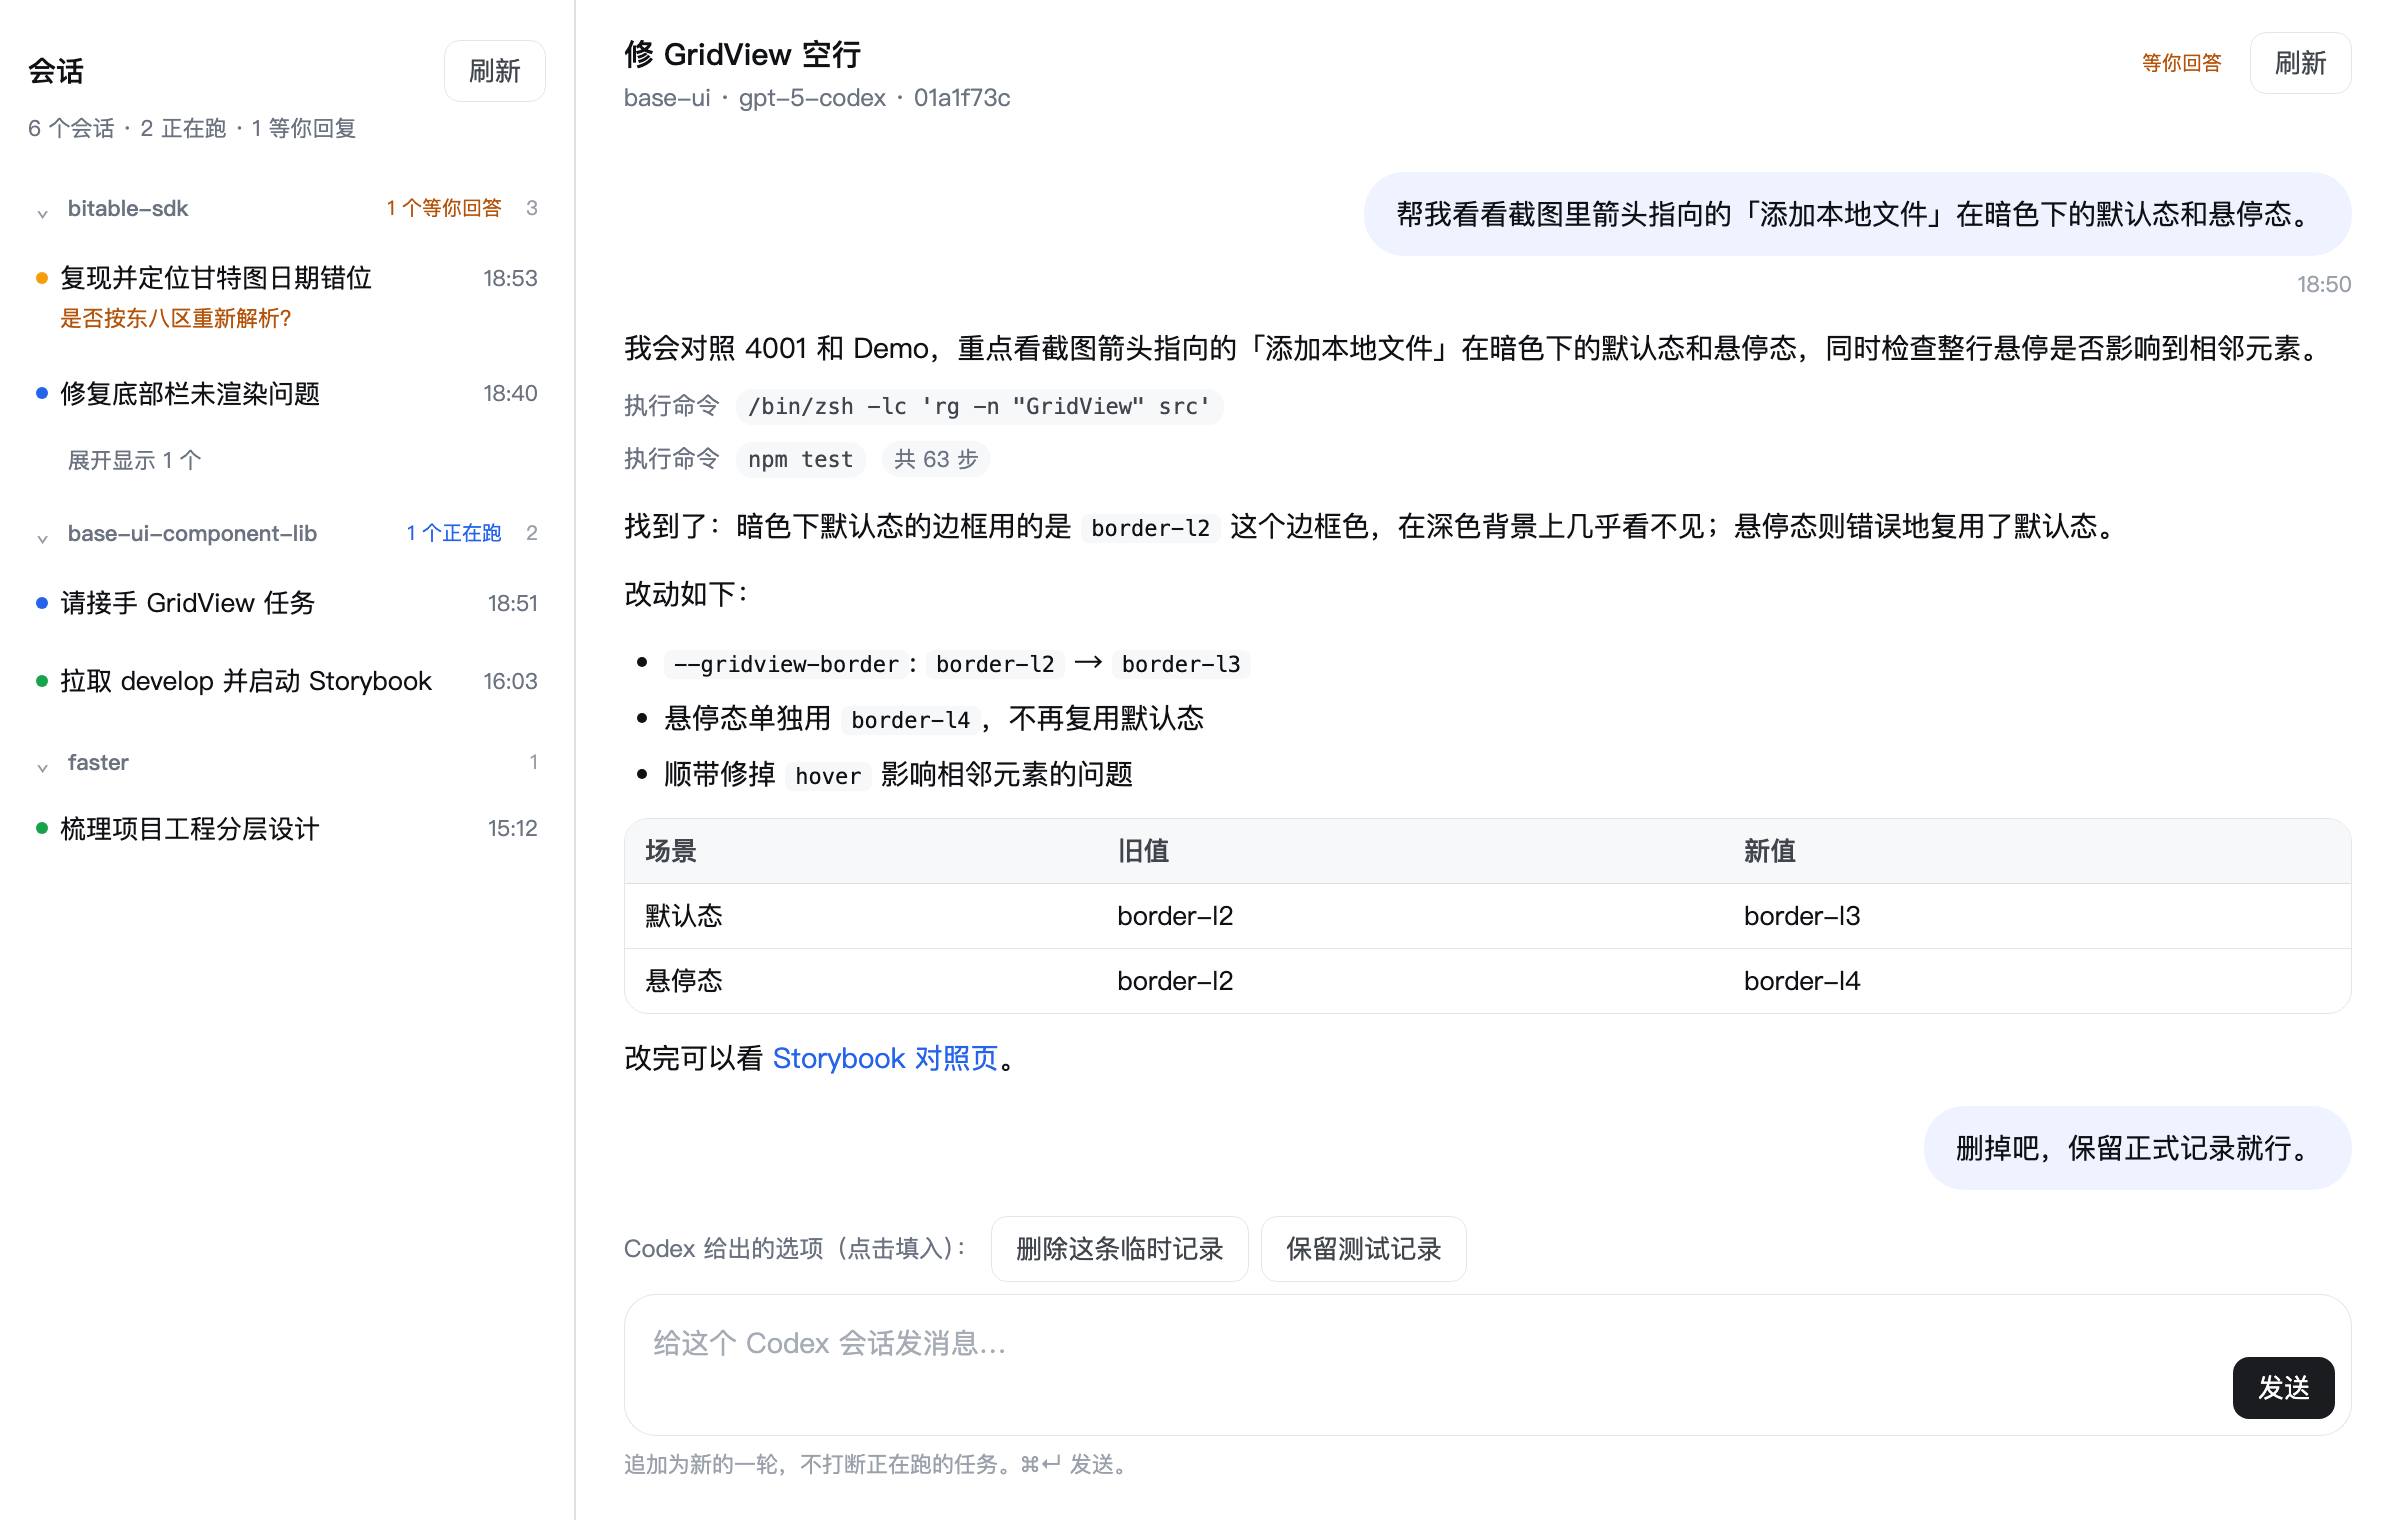
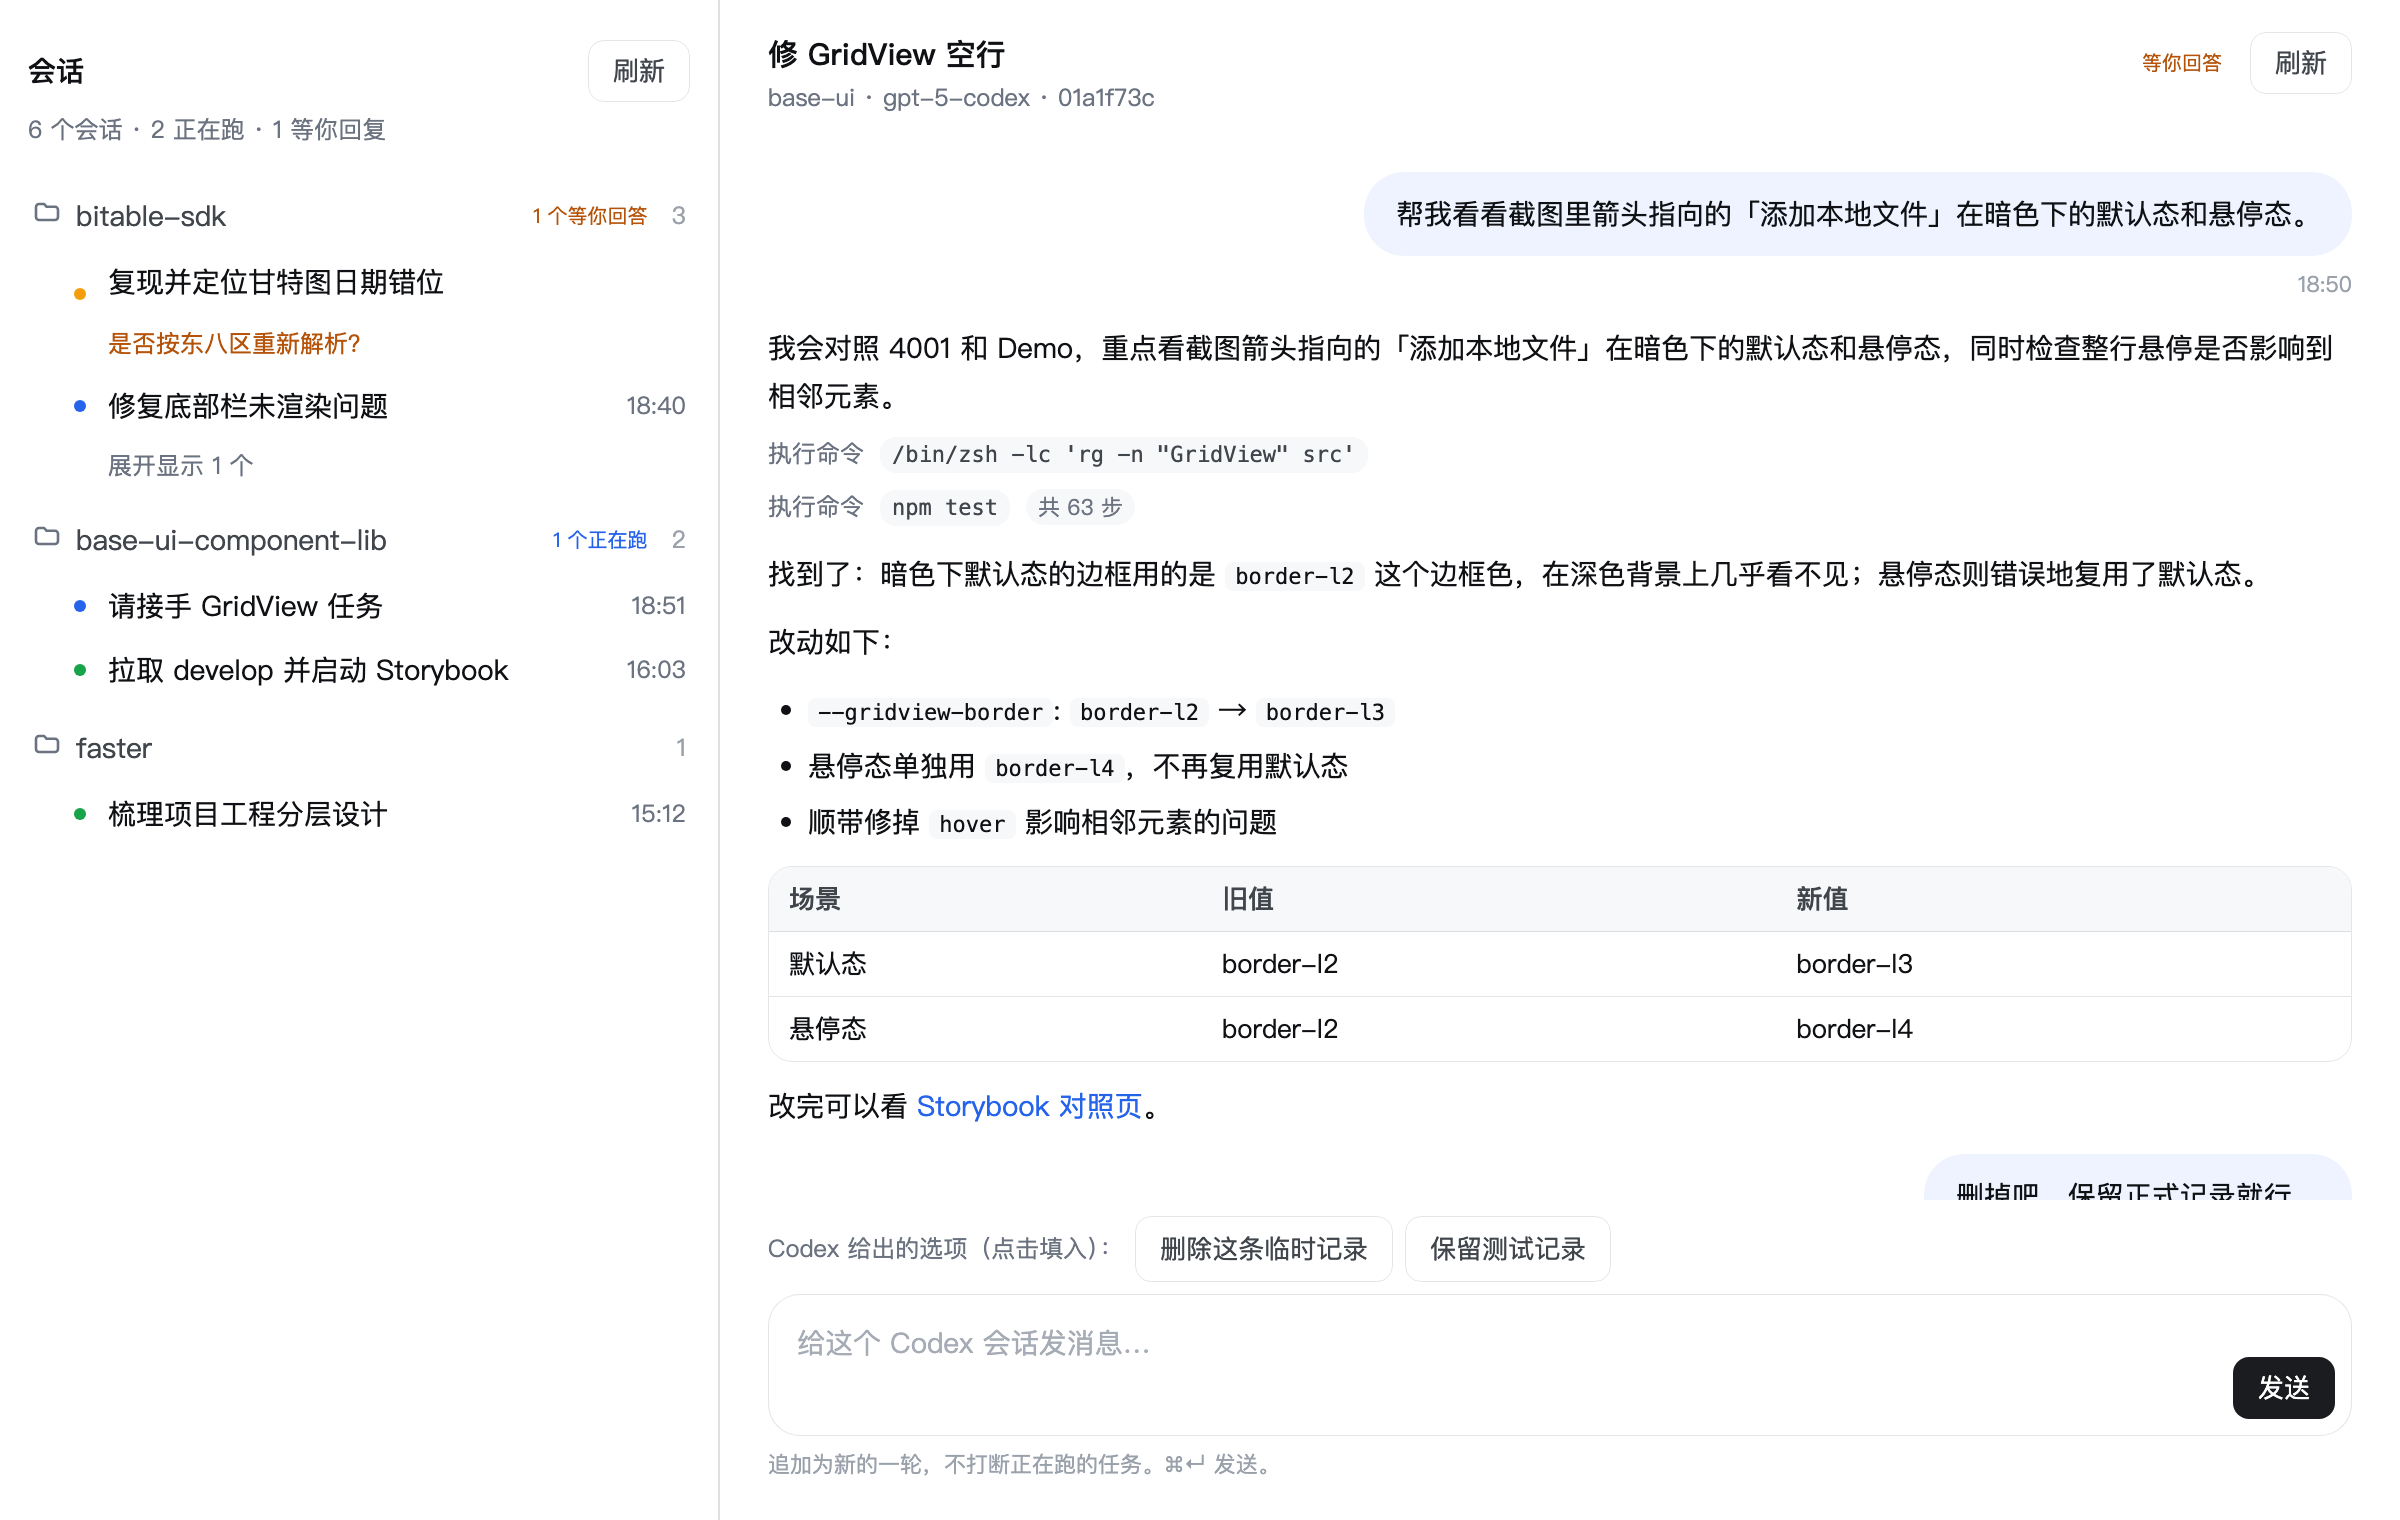
Match the list rows to DSH's own workspace tree metrics
The list rows were invented rather than derived, so they did not sit on the same
grid as the host UI: 9px-padded two-line cards with a 13px title and an 8px radius,
next to a host that uses one-line rows.

Take the metrics from dsh-client-ui-workspace, which renders the session tree the
list is meant to resemble:

  project row 34px, session row 32px, radius --dsw-radius-md (12px),
  icon slot 16x20, 12px row padding, 6px icon-to-label gap,
  14px/20px title, 12px/20px meta, and 12px per nesting level
  (--dsh-workspace-indent)

Rows become single-line with an icon slot and an ellipsised title, matching the
host. The one deliberate exception is a session that waits on the user: it breaks
the one-line rhythm to carry the pending question, because that is the row the
list exists to surface.

The project row adopts DSH's hover behaviour too, swapping the folder glyph for a
chevron, and uses the host's hover and focus-ring tokens rather than a bespoke
background.

The list pane widens to clamp(240px, 30%, 360px); at the old 24% the real project
names (base-ui-component-lib) truncated.

diff --git a/plugin/client.js b/plugin/client.js
@@ -187,51 +187,69 @@ window.__ModuleLoader__.load({
   background:var(--dsw-alias-bg-base);color:var(--dsw-alias-label-primary);
   font-size:var(--dsh-content-font-size,14px)}
 
-/* left: session list */
-.cxm-list-pane{flex:none;width:clamp(212px,24%,300px);display:flex;flex-direction:column;
+/* left: session list
+   Row metrics are taken from DSH's own workspace tree
+   (dsh-client-ui-workspace: .sessionRow / .projectRow) rather than invented, so the
+   list reads as part of the host UI: 32px session rows, 34px project rows, a 16x20
+   icon slot, 12px row padding, 6px icon-to-label gap, and 12px per nesting level. */
+.cxm-list-pane{flex:none;width:clamp(240px,30%,360px);display:flex;flex-direction:column;
   min-height:0;border-right:1px solid var(--dsw-alias-border-l3)}
 .cxm-list-head{padding:calc(20px + var(--dsh-frame-top-clearance,0px)) 14px 10px}
 .cxm-list-title{margin:0;font-size:14px;font-weight:500;display:flex;align-items:center;
   gap:8px;justify-content:space-between}
-.cxm-list-counts{color:var(--dsw-alias-label-tertiary);font-size:11px;margin-top:5px;
-  line-height:1.5}
+.cxm-list-counts{color:var(--dsw-alias-label-tertiary);font-size:12px;margin-top:4px;
+  line-height:20px}
 .cxm-list-body{flex:1;min-height:0;overflow:auto;padding:0 8px 16px;display:flex;
-  flex-direction:column;gap:2px}
-.cxm-row{display:flex;flex-direction:column;gap:3px;width:100%;text-align:left;
-  border:0;border-radius:var(--dsw-radius-sm);background:transparent;color:inherit;
-  padding:9px 10px;cursor:pointer;font-family:inherit;position:relative}
-.cxm-row[data-selected='true']{background:var(--dsw-alias-bg-layer-2)}
-.cxm-row-top{display:flex;align-items:center;gap:6px;min-width:0}
+  flex-direction:column}
+
+/* Shared row geometry: one line, icon slot, ellipsised title. */
+.cxm-row,.cxm-group-head,.cxm-group-more{display:flex;align-items:center;
+  box-sizing:border-box;width:100%;text-align:left;border:0;font-family:inherit;
+  background:transparent;cursor:pointer;color:var(--dsw-alias-label-primary);
+  border-radius:var(--dsw-radius-md);padding:0 8px;gap:var(--dsh-sidebar-label-gap,6px)}
+.cxm-row:hover,.cxm-group-head:hover,.cxm-group-more:hover{
+  background:var(--dsw-alias-interactive-bg-hover)}
+.cxm-row[data-selected='true']{background:var(--dsw-alias-interactive-bg-hover)}
+.cxm-row:focus-visible,.cxm-group-head:focus-visible,.cxm-group-more:focus-visible{
+  outline:var(--dsw-focus-ring-width) solid var(--dsw-focus-ring-color);outline-offset:-2px}
+
+/* session row: 32px, indented one level under its project */
+.cxm-row{height:32px;padding-inline-start:calc(12px + 12px)}
+.cxm-slot{width:16px;height:20px;flex:none;display:inline-flex;align-items:center;
+  justify-content:center;color:var(--dsw-alias-label-tertiary)}
 .cxm-dot{width:6px;height:6px;border-radius:50%;flex:none}
 .cxm-row-name{flex:1;min-width:0;overflow:hidden;text-overflow:ellipsis;
-  white-space:nowrap;font-size:13px;line-height:1.45}
-.cxm-row-time{font-variant-numeric:tabular-nums;color:var(--dsw-alias-label-tertiary);
-  font-size:11px;flex:none}
-.cxm-row-meta{color:var(--dsw-alias-label-tertiary);font-size:11px;overflow:hidden;
-  text-overflow:ellipsis;white-space:nowrap;padding-left:12px}
-.cxm-row-ask{color:var(--dsw-alias-state-warn-label);font-size:11px;line-height:1.45;
-  padding-left:12px;display:-webkit-box;-webkit-line-clamp:2;-webkit-box-orient:vertical;
-  overflow:hidden}
-/* project grouping: a quiet heading, the way Codex's own sidebar reads */
-.cxm-group-head{display:flex;align-items:center;gap:6px;width:100%;text-align:left;
-  border:0;background:transparent;color:var(--dsw-alias-label-tertiary);font-family:inherit;
-  font-size:11px;line-height:16px;padding:12px 10px 4px;cursor:pointer;min-width:0}
-.cxm-group-head:hover{color:var(--dsw-alias-label-secondary)}
-.cxm-group-head[data-collapsed='true']{padding-bottom:2px}
-.cxm-group-chevron{flex:none;width:10px;font-size:11px;opacity:.7}
+  white-space:nowrap;font-size:14px;line-height:20px}
+.cxm-row-time{flex:none;font-variant-numeric:tabular-nums;
+  color:var(--dsw-alias-label-tertiary);font-size:12px;line-height:20px}
+/* A session that waits on the user is the one thing worth breaking the one-line
+   rhythm for, so it carries the question as a second line. */
+.cxm-row[data-waiting='true']{height:auto;min-height:32px;padding-block:6px;
+  flex-wrap:wrap;align-items:flex-start}
+.cxm-row[data-waiting='true'] .cxm-slot{margin-top:6px}
+.cxm-row[data-waiting='true'] .cxm-row-name{white-space:normal;overflow:visible}
+.cxm-row-ask{flex:1 0 100%;color:var(--dsw-alias-state-warn-label);font-size:12px;
+  line-height:18px;padding-left:calc(16px + var(--dsh-sidebar-label-gap,6px));
+  display:-webkit-box;-webkit-line-clamp:2;-webkit-box-orient:vertical;overflow:hidden}
+
+/* project row: 34px, folder glyph that turns into a chevron on hover, as in DSH */
+.cxm-group-head{height:34px;color:var(--dsw-alias-label-secondary);margin-top:6px}
+.cxm-group-slot{width:16px;height:20px;flex:none;display:inline-flex;align-items:center;
+  justify-content:center;color:var(--dsw-alias-label-tertiary)}
+.cxm-group-chevron{display:none}
+.cxm-group-head:hover .cxm-group-folder{display:none}
+.cxm-group-head:hover .cxm-group-chevron{display:inline-flex}
+.cxm-group-head[data-collapsed='true'] .cxm-group-folder{display:none}
+.cxm-group-head[data-collapsed='true'] .cxm-group-chevron{display:inline-flex}
 .cxm-group-name{min-width:0;flex:1 1 auto;overflow:hidden;text-overflow:ellipsis;
-  white-space:nowrap;font-weight:500}
+  white-space:nowrap;font-size:14px;line-height:20px;font-weight:400}
 /* The name outranks the badge: a truncated project name defeats the grouping, so
-   the badge shrinks to its dot when space runs out. */
+   the badge shrinks to nothing when space runs out. */
 .cxm-group-head .cxm-chip{flex:0 1 auto;min-width:0;overflow:hidden}
-.cxm-group-count{margin-left:auto;flex:none;font-variant-numeric:tabular-nums;
-  color:var(--dsw-alias-label-caption);font-size:10px}
-.cxm-group-more{display:block;width:100%;text-align:left;border:0;background:none;
-  color:var(--dsw-alias-label-tertiary);font-family:inherit;font-size:11px;line-height:16px;
-  padding:5px 10px 5px 26px;cursor:pointer;border-radius:var(--dsw-radius-sm)}
-.cxm-group-more:hover{color:var(--dsw-alias-label-secondary);
-  background:var(--dsw-alias-interactive-bg-hover)}
-.cxm-group-head+.cxm-row{margin-top:1px}
+.cxm-group-count{flex:none;font-variant-numeric:tabular-nums;
+  color:var(--dsw-alias-label-caption);font-size:12px;line-height:20px}
+.cxm-group-more{height:28px;padding-inline-start:calc(12px + 12px + 16px + 6px);
+  color:var(--dsw-alias-label-tertiary);font-size:12px;line-height:20px}
 
 .cxm-chip{font-size:10px;padding:1px 6px;border-radius:999px;white-space:nowrap;flex:none;
   line-height:1.7;background:var(--dsw-alias-bg-layer-2);color:var(--dsw-alias-label-secondary)}
@@ -490,6 +508,36 @@ window.__ModuleLoader__.load({
       return groups
     }
 
+    /** Folder and chevron glyphs, sized to the 16x20 slot DSH uses in its tree. */
+    function FolderGlyph({ open = false }) {
+      return h(
+        'svg',
+        { width: 16, height: 16, viewBox: '0 0 16 16', fill: 'none', 'aria-hidden': 'true', focusable: 'false' },
+        h('path', {
+          d: open
+            ? 'M2 5.5A1.5 1.5 0 0 1 3.5 4h2.6l1.2 1.4h4.2A1.5 1.5 0 0 1 13 6.9v3.6a1.5 1.5 0 0 1-1.5 1.5h-8A1.5 1.5 0 0 1 2 10.5z'
+            : 'M2 5A1.5 1.5 0 0 1 3.5 3.5h2.4l1.3 1.5h4.3A1.5 1.5 0 0 1 13 6.5V11a1.5 1.5 0 0 1-1.5 1.5h-8A1.5 1.5 0 0 1 2 11z',
+          stroke: 'currentColor',
+          'stroke-width': 1.3,
+          'stroke-linejoin': 'round',
+        }),
+      )
+    }
+
+    function ChevronGlyph() {
+      return h(
+        'svg',
+        { width: 12, height: 12, viewBox: '0 0 12 12', fill: 'none', 'aria-hidden': 'true', focusable: 'false' },
+        h('path', {
+          d: 'M4.5 2.5 8 6l-3.5 3.5',
+          stroke: 'currentColor',
+          'stroke-width': 1.4,
+          'stroke-linecap': 'round',
+          'stroke-linejoin': 'round',
+        }),
+      )
+    }
+
     /** A project heading: folder glyph, name, and how many sessions need attention. */
     function ProjectHeader({ t, group, collapsed, onToggle }) {
       const badge = group.waiting > 0 ? 'warn' : group.running > 0 ? 'business' : null
@@ -499,10 +547,16 @@ window.__ModuleLoader__.load({
           type: 'button',
           className: 'cxm-group-head',
           'data-collapsed': collapsed ? 'true' : 'false',
+          'aria-expanded': collapsed ? 'false' : 'true',
           onClick: onToggle,
           title: group.cwd || group.project,
         },
-        h('span', { className: 'cxm-group-chevron', 'aria-hidden': 'true' }, collapsed ? '›' : '⌄'),
+        h(
+          'span',
+          { className: 'cxm-group-slot' },
+          h('span', { className: 'cxm-group-folder' }, h(FolderGlyph, { open: !collapsed })),
+          h('span', { className: 'cxm-group-chevron' }, h(ChevronGlyph)),
+        ),
         h('span', { className: 'cxm-group-name' }, group.project),
         badge === null
           ? null
@@ -800,37 +854,32 @@ window.__ModuleLoader__.load({
     /** One row in the left list. Selecting it drives the conversation pane. */
     function SessionRow({ t, session, selected, onSelect }) {
       const waiting = session.state === 'waiting'
+      const showAsk = waiting && session.question
       return h(
         'button',
         {
           type: 'button',
           className: 'cxm-row',
           'data-selected': selected ? 'true' : 'false',
+          'data-waiting': showAsk ? 'true' : 'false',
           'aria-current': selected ? 'true' : undefined,
           onClick: () => onSelect(session.id),
+          title: session.title,
         },
         h(
           'span',
-          { className: 'cxm-row-top' },
+          { className: 'cxm-slot' },
           h('span', {
             className: 'cxm-dot',
             style: {
               background: `var(--dsw-alias-state-${STATE_TOKEN[session.state] ?? 'idle'}-primary)`,
             },
           }),
-          h('span', { className: 'cxm-row-name' }, session.title),
-          h('span', { className: 'cxm-row-time' }, clock(session.updatedAt)),
         ),
-        h(
-          'span',
-          { className: 'cxm-row-meta' },
-          session.state === 'running'
-            ? `${session.project} · ${t('state.running')}`
-            : session.project,
-        ),
-        waiting && session.question
+        h('span', { className: 'cxm-row-name' }, session.title),
+        showAsk
           ? h('span', { className: 'cxm-row-ask' }, session.question)
-          : null,
+          : h('span', { className: 'cxm-row-time' }, clock(session.updatedAt)),
       )
     }
 
